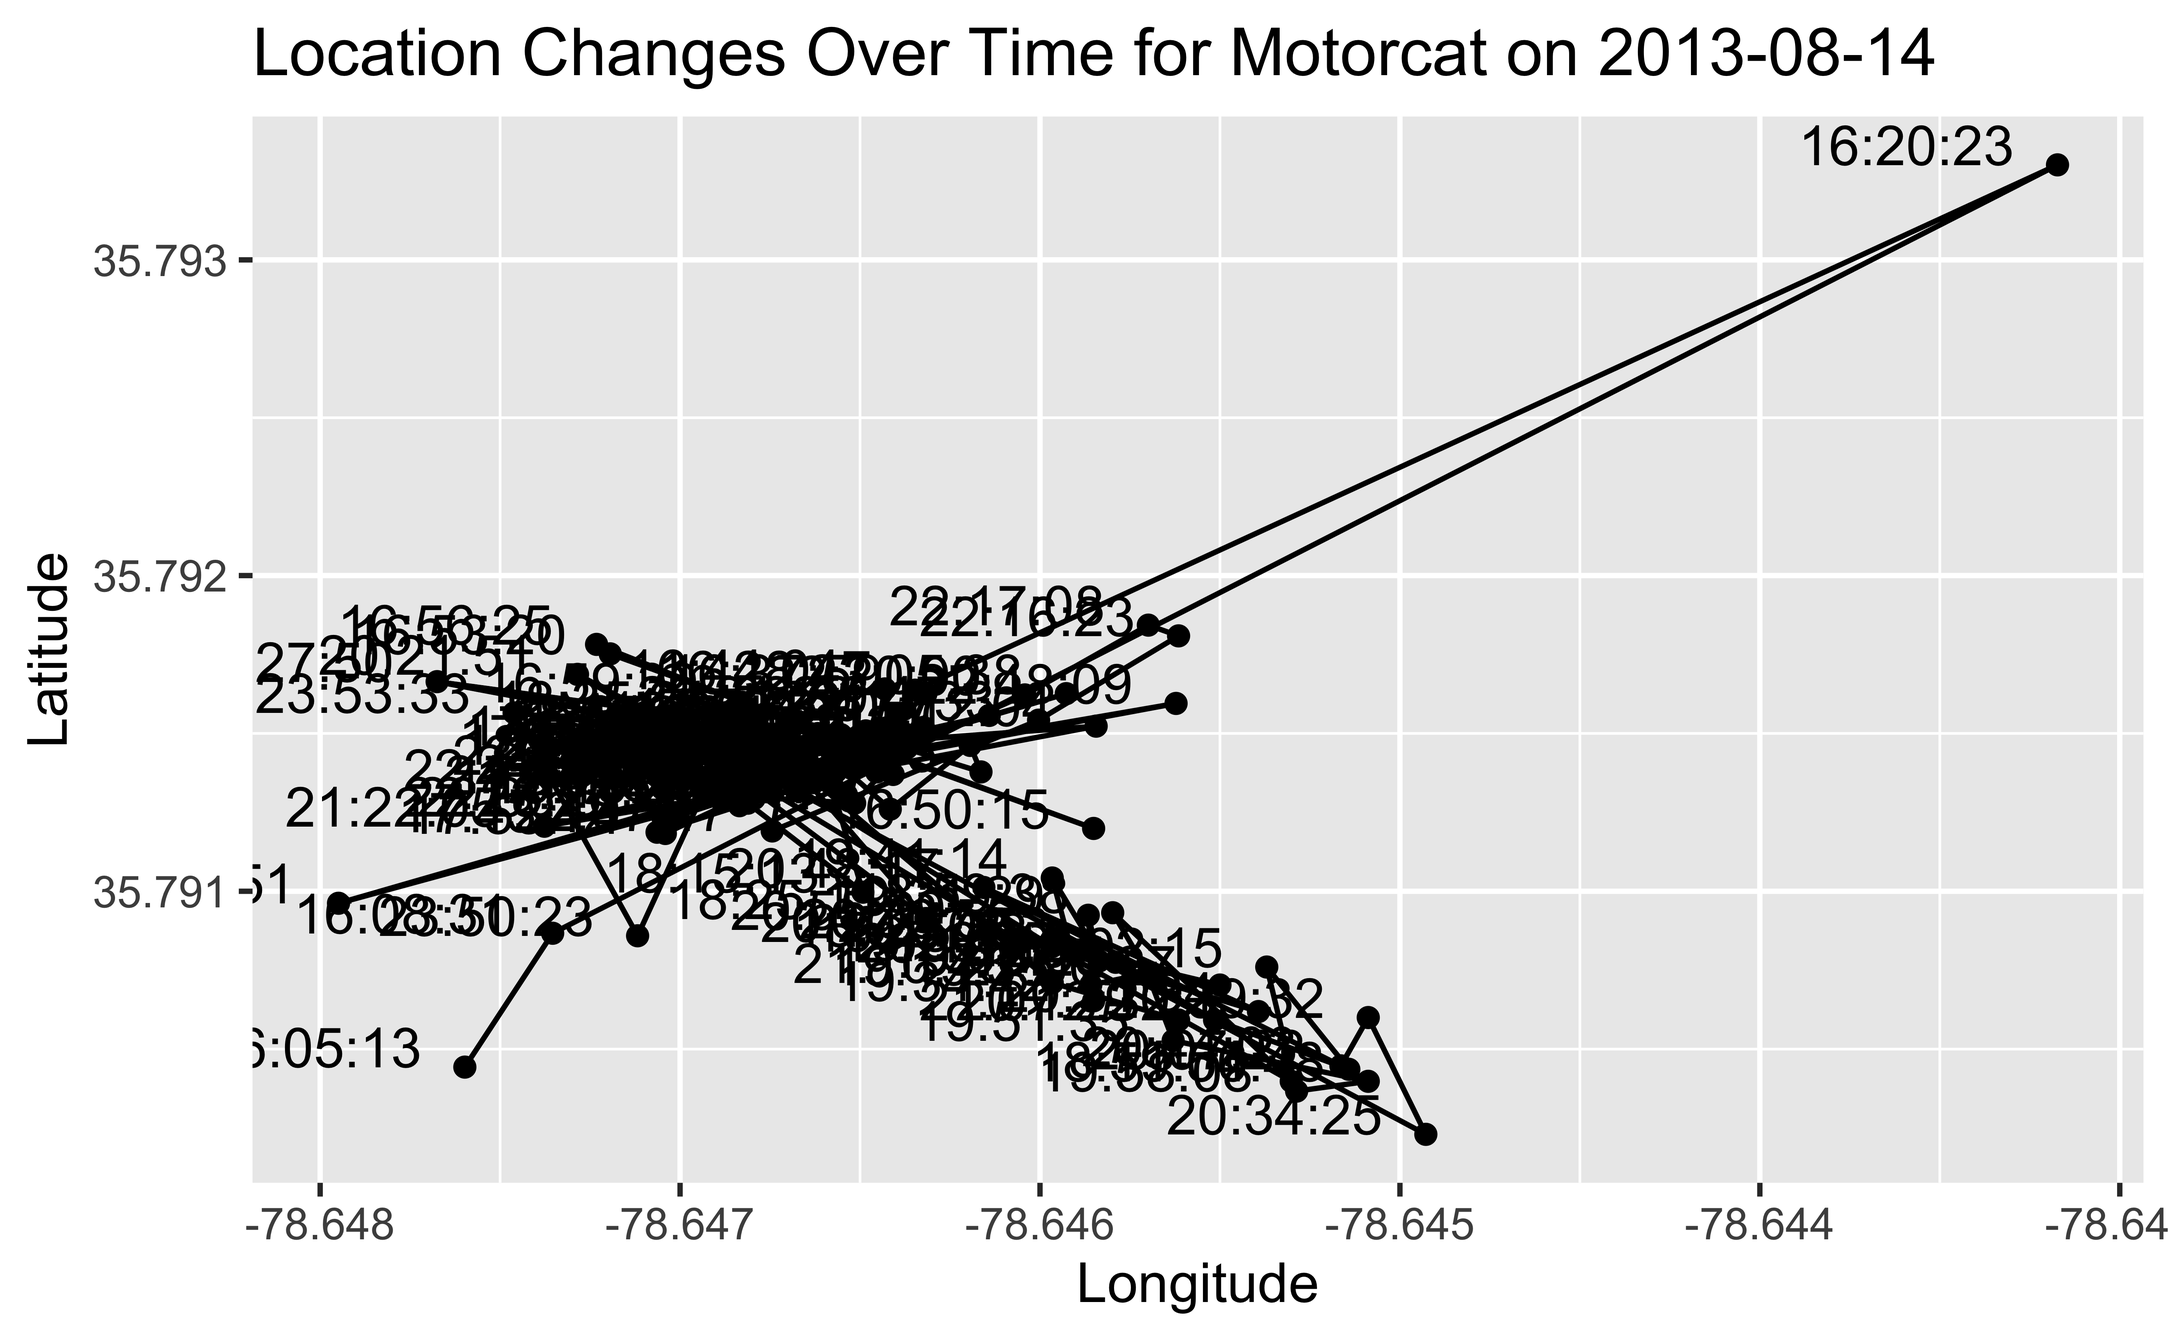
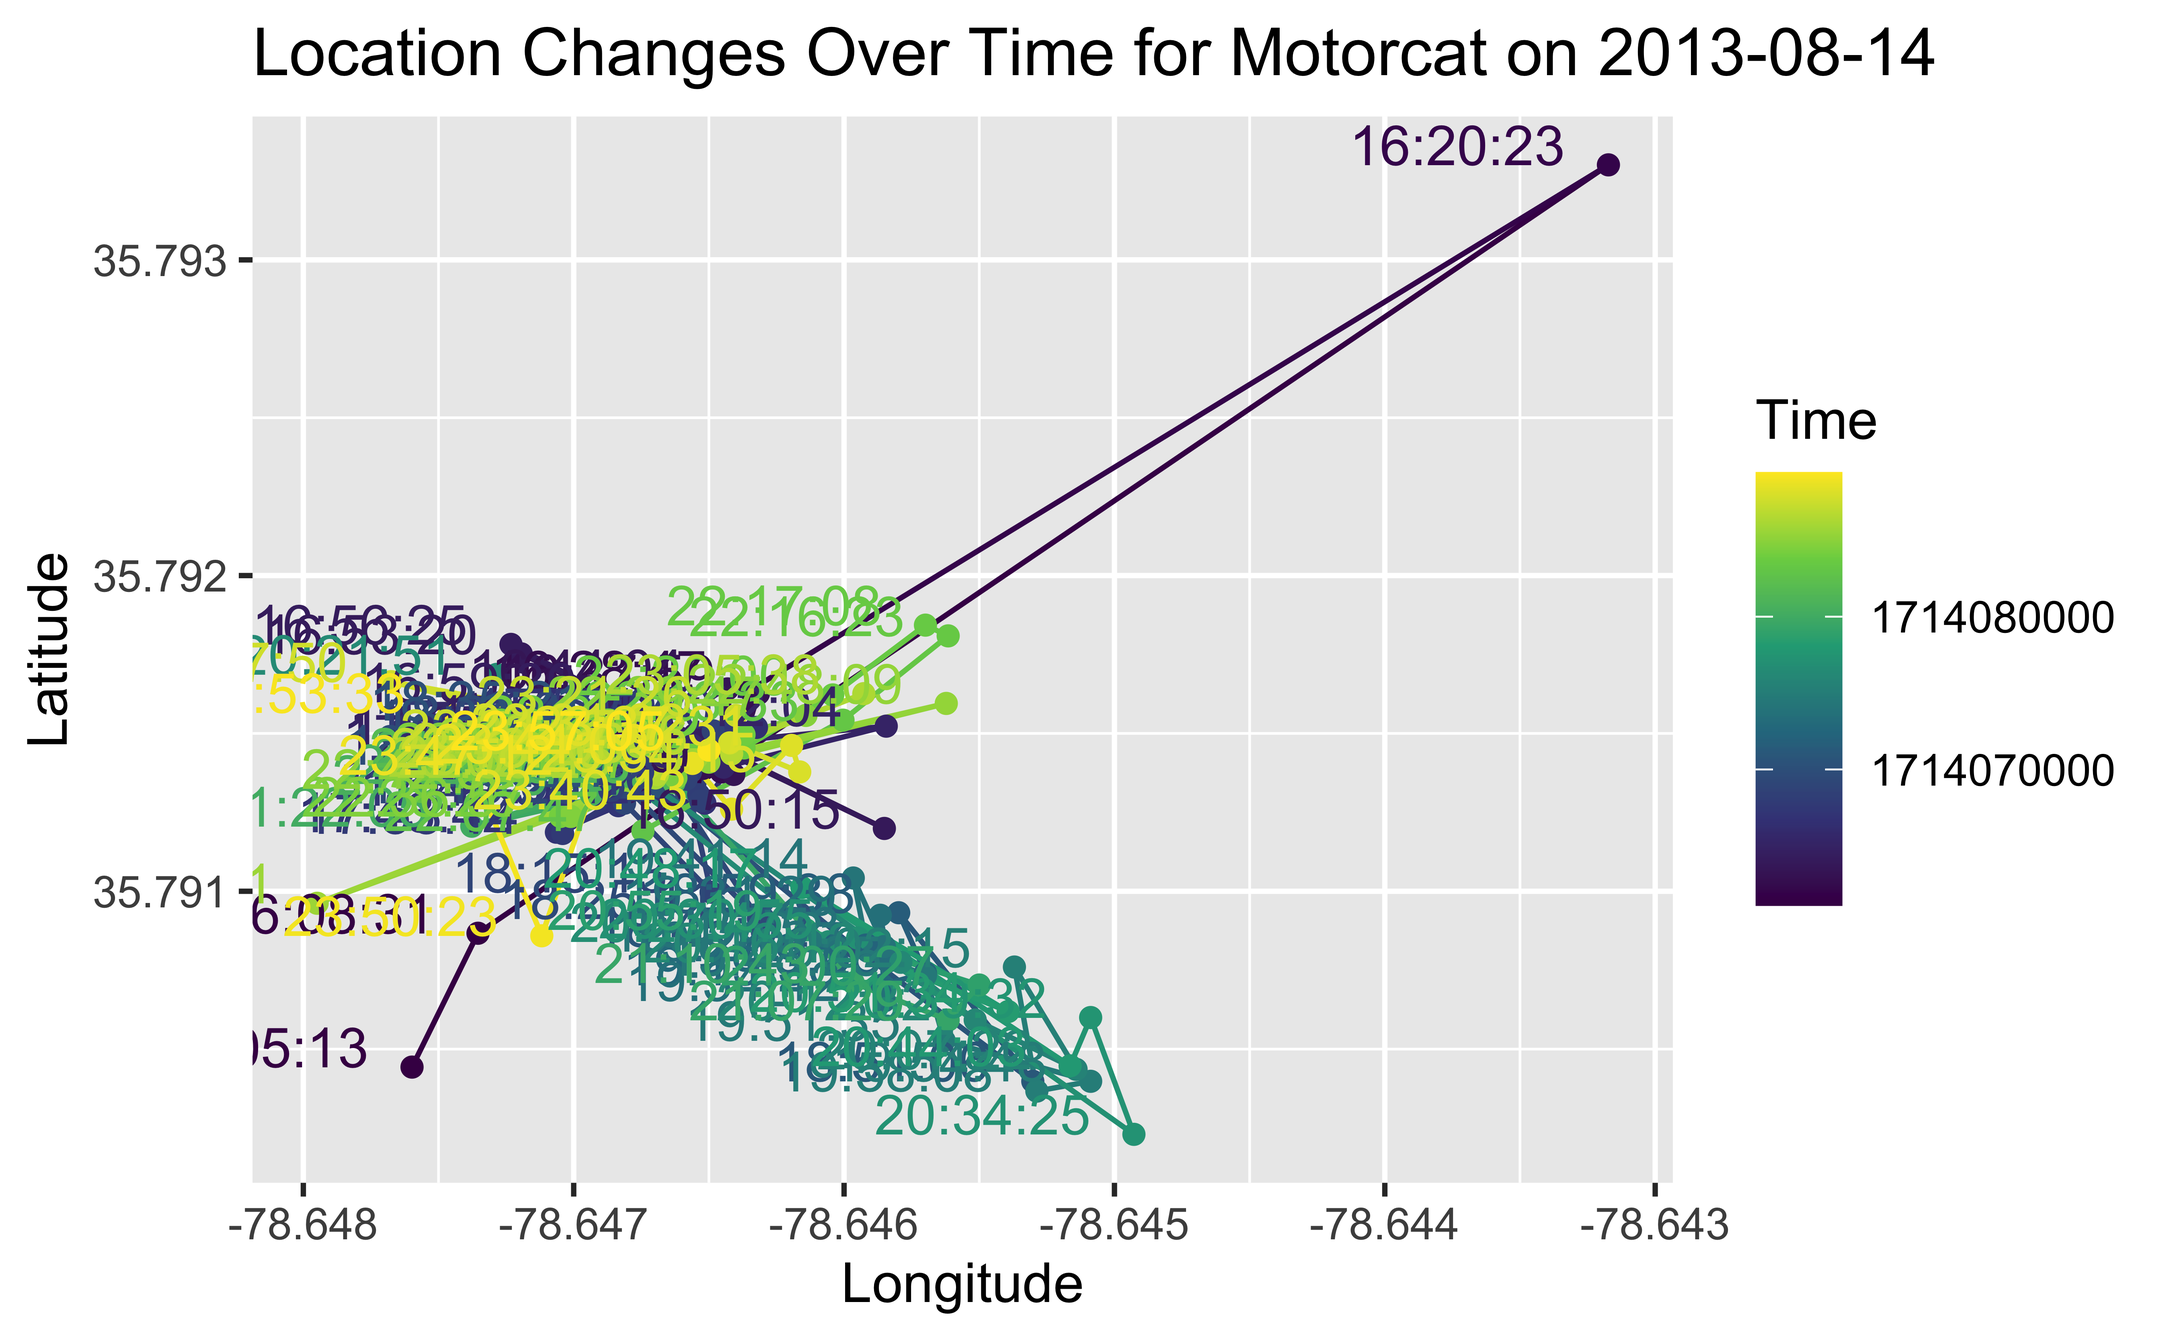
final pres push!!!

diff --git a/_site/presentation.html b/_site/presentation.html
@@ -405,18 +405,18 @@ Team Cat, aka Sydney Stitt
 <section id="so-what-is-a-cat" class="title-slide slide level1 center">
 <h1>So, What is a Cat?</h1>
 
-<img data-src="Images/914C34C0-E533-4D61-80B9-1A3BD8208928.jpg" class="r-stretch quarto-figure-center"><p class="caption">This is cat, his name is Moony. He is the most spoiled, silly cat out there!</p></section>
+<img data-src="Images/914C34C0-E533-4D61-80B9-1A3BD8208928.jpg" class="r-stretch quarto-figure-center"><p class="caption">This is cat, his name is <strong>Moony</strong>. He is the most spoiled, silly cat out there!</p></section>
 
 <section id="data" class="title-slide slide level1 center">
 <h1>Data</h1>
 <ul>
 <li><p>Two datasets</p>
 <ul>
-<li><p>cat_us: GPS coordinates &amp; timestamps of 140+ cats from the United States from 2013-2016</p></li>
-<li><p>cat_us_reference: metadata on individual cat lifestyles (sex, age, diet, hunting, number of cat siblings) and data collection metadata</p></li>
+<li><p><strong>cat_us</strong>: GPS coordinates &amp; timestamps of 140+ cats from the United States from 2013-2016</p></li>
+<li><p><strong>cat_us_reference</strong>: metadata on individual cat lifestyles (sex, age, diet, hunting, number of cat siblings) and data collection metadata</p></li>
 </ul></li>
 <li><p>Data collected by volunteer cat owners from 12 geographically diverse US states</p></li>
-<li><p>Initially used to analyze the ecological impacts of outdoor cats</p></li>
+<li><p>Initially used to analyze the <strong>ecological impacts</strong> of outdoor cats</p></li>
 </ul>
 </section>
 
@@ -433,15 +433,15 @@ Team Cat, aka Sydney Stitt
 <h1>Data Wrangling</h1>
 <p>659,770 observations into 62,543 observations! How did I do it?</p>
 <ol type="1">
-<li><p>Remove cats with NA metadata observations (not super useful without metadata) or locations outside the US</p></li>
-<li><p>Remove unnecessary variables and tidy up observations (time stamps and comments)</p></li>
-<li><p>Remove outliers (manually and algorithm marked)</p></li>
+<li><p>Remove cats with <strong>NA metadata observations</strong> (not super useful without metadata) or locations outside the US</p></li>
+<li><p>Remove <strong>unnecessary variables</strong> and tidy up observations (time stamps and comments)</p></li>
+<li><p>Remove <strong>outliers</strong> (manually and algorithm marked)</p></li>
 </ol>
 </section>
 <section id="this-is-getting-messy-calculating-distance" class="slide level2">
 <h2>This is Getting Messy! Calculating Distance!</h2>
 <ol type="1">
-<li><p>Create a function that calculates the distance between two sets of coordinates into a new variable using the Haversine formula</p></li>
+<li><p>Create a function that calculates the distance between two sets of coordinates into a new variable using the <strong>Haversine formula</strong></p></li>
 <li><p>Create individual datasets for each cat</p></li>
 <li><p>Apply Haversine function to calculate distances for each cat</p></li>
 <li><p>Take the averages of distances per day, per 3 minute observation cycle, per cat, and per age group for comparison</p></li>
@@ -596,8 +596,8 @@ Team Cat, aka Sydney Stitt
 <section id="data-visualizations" class="title-slide slide level1 center">
 <h1>Data Visualizations</h1>
 <ul>
-<li><p>Will eventually make a Shiny app to have user customize which cat and which day they want to visualize</p></li>
-<li><p>For now, this is the base for what I want the app to produce</p></li>
+<li><p>Will eventually make a <strong>Shiny app</strong> to have user customize which cat and which day they want to visualize</p></li>
+<li><p>For now, these are the basic visualizations for what I want the app to produce</p></li>
 </ul>
 </section>
 <section id="map-1" class="slide level2">
@@ -609,24 +609,26 @@ Team Cat, aka Sydney Stitt
 <div class="cell">
 <div class="sourceCode cell-code" id="cb4"><pre class="sourceCode numberSource r number-lines code-with-copy"><code class="sourceCode r"><span id="cb4-1"><a href="#cb4-1"></a><span class="co">#Function</span></span>
 <span id="cb4-2"><a href="#cb4-2"></a>plot_cat_movement <span class="ot">&lt;-</span> <span class="cf">function</span>(adjusted_cat_distance, cat_identifier, date) {</span>
-<span id="cb4-3"><a href="#cb4-3"></a>  motorcat_cat <span class="ot">&lt;-</span> adjusted_cat_distance <span class="sc">%&gt;%</span></span>
-<span id="cb4-4"><a href="#cb4-4"></a>    <span class="fu">filter</span>(<span class="st">`</span><span class="at">individual-local-identifier</span><span class="st">`</span> <span class="sc">==</span> cat_identifier) <span class="sc">%&gt;%</span></span>
-<span id="cb4-5"><a href="#cb4-5"></a>    <span class="fu">filter</span>(Date <span class="sc">==</span> date) <span class="sc">%&gt;%</span></span>
-<span id="cb4-6"><a href="#cb4-6"></a>    <span class="fu">mutate</span>(<span class="at">Time =</span> <span class="fu">as.POSIXct</span>(Time, <span class="at">format =</span> <span class="st">"%H:%M:%S"</span>)) <span class="sc">%&gt;%</span></span>
-<span id="cb4-7"><a href="#cb4-7"></a>    <span class="fu">arrange</span>(Time)</span>
-<span id="cb4-8"><a href="#cb4-8"></a>  </span>
-<span id="cb4-9"><a href="#cb4-9"></a>  <span class="co"># Generate title dynamically</span></span>
-<span id="cb4-10"><a href="#cb4-10"></a>  title <span class="ot">&lt;-</span> <span class="fu">paste</span>(<span class="st">"Location Changes Over Time for"</span>, cat_identifier, <span class="st">"on"</span>, date)</span>
-<span id="cb4-11"><a href="#cb4-11"></a>  </span>
-<span id="cb4-12"><a href="#cb4-12"></a>  <span class="fu">ggplot</span>(motorcat_cat, <span class="fu">aes</span>(<span class="at">x =</span> <span class="st">`</span><span class="at">location-long</span><span class="st">`</span>, <span class="at">y =</span> <span class="st">`</span><span class="at">location-lat</span><span class="st">`</span>, <span class="at">group =</span> <span class="dv">1</span>)) <span class="sc">+</span></span>
-<span id="cb4-13"><a href="#cb4-13"></a>    <span class="fu">geom_path</span>() <span class="sc">+</span> </span>
-<span id="cb4-14"><a href="#cb4-14"></a>    <span class="fu">geom_point</span>() <span class="sc">+</span></span>
-<span id="cb4-15"><a href="#cb4-15"></a>    <span class="fu">geom_text</span>(<span class="fu">aes</span>(<span class="at">label =</span> <span class="fu">format</span>(Time, <span class="st">"%H:%M:%S"</span>)), <span class="at">hjust =</span> <span class="fl">1.2</span>, <span class="at">vjust =</span> <span class="dv">0</span>) <span class="sc">+</span>  <span class="co"># Add time stamps</span></span>
-<span id="cb4-16"><a href="#cb4-16"></a>    <span class="fu">labs</span>(<span class="at">x =</span> <span class="st">"Longitude"</span>, <span class="at">y =</span> <span class="st">"Latitude"</span>, <span class="at">title =</span> title)</span>
-<span id="cb4-17"><a href="#cb4-17"></a>}</span>
-<span id="cb4-18"><a href="#cb4-18"></a></span>
-<span id="cb4-19"><a href="#cb4-19"></a><span class="co"># Usage example</span></span>
-<span id="cb4-20"><a href="#cb4-20"></a><span class="fu">plot_cat_movement</span>(adjusted_cat_distance, <span class="st">"Motorcat"</span>, <span class="st">"2013-08-14"</span>)</span></code><button title="Copy to Clipboard" class="code-copy-button"><i class="bi"></i></button></pre></div>
+<span id="cb4-3"><a href="#cb4-3"></a>  </span>
+<span id="cb4-4"><a href="#cb4-4"></a>  motorcat_cat <span class="ot">&lt;-</span> adjusted_cat_distance <span class="sc">%&gt;%</span></span>
+<span id="cb4-5"><a href="#cb4-5"></a>    <span class="fu">filter</span>(<span class="st">`</span><span class="at">individual-local-identifier</span><span class="st">`</span> <span class="sc">==</span> cat_identifier) <span class="sc">%&gt;%</span></span>
+<span id="cb4-6"><a href="#cb4-6"></a>    <span class="fu">filter</span>(Date <span class="sc">==</span> date) <span class="sc">%&gt;%</span></span>
+<span id="cb4-7"><a href="#cb4-7"></a>    <span class="fu">mutate</span>(<span class="at">Time =</span> <span class="fu">as.POSIXct</span>(Time, <span class="at">format =</span> <span class="st">"%H:%M:%S"</span>, <span class="at">tz =</span> <span class="st">"UTC"</span>)) <span class="sc">%&gt;%</span>  <span class="co"># Convert to POSIXct</span></span>
+<span id="cb4-8"><a href="#cb4-8"></a>    <span class="fu">arrange</span>(Time)</span>
+<span id="cb4-9"><a href="#cb4-9"></a>  </span>
+<span id="cb4-10"><a href="#cb4-10"></a>  <span class="co"># Generate title dynamically</span></span>
+<span id="cb4-11"><a href="#cb4-11"></a>  title <span class="ot">&lt;-</span> <span class="fu">paste</span>(<span class="st">"Location Changes Over Time for"</span>, cat_identifier, <span class="st">"on"</span>, date)</span>
+<span id="cb4-12"><a href="#cb4-12"></a>  </span>
+<span id="cb4-13"><a href="#cb4-13"></a>  <span class="fu">ggplot</span>(motorcat_cat, <span class="fu">aes</span>(<span class="at">x =</span> <span class="st">`</span><span class="at">location-long</span><span class="st">`</span>, <span class="at">y =</span> <span class="st">`</span><span class="at">location-lat</span><span class="st">`</span>, <span class="at">group =</span> <span class="dv">1</span>, <span class="at">color =</span> Time)) <span class="sc">+</span></span>
+<span id="cb4-14"><a href="#cb4-14"></a>    <span class="fu">geom_path</span>() <span class="sc">+</span> </span>
+<span id="cb4-15"><a href="#cb4-15"></a>    <span class="fu">geom_point</span>() <span class="sc">+</span></span>
+<span id="cb4-16"><a href="#cb4-16"></a>    <span class="fu">scale_color_viridis_c</span>() <span class="sc">+</span></span>
+<span id="cb4-17"><a href="#cb4-17"></a>    <span class="fu">geom_text</span>(<span class="fu">aes</span>(<span class="at">label =</span> <span class="fu">format</span>(Time, <span class="st">"%H:%M:%S"</span>)), <span class="at">hjust =</span> <span class="fl">1.2</span>, <span class="at">vjust =</span> <span class="dv">0</span>) <span class="sc">+</span>  <span class="co"># Add time stamps</span></span>
+<span id="cb4-18"><a href="#cb4-18"></a>    <span class="fu">labs</span>(<span class="at">x =</span> <span class="st">"Longitude"</span>, <span class="at">y =</span> <span class="st">"Latitude"</span>, <span class="at">title =</span> title)</span>
+<span id="cb4-19"><a href="#cb4-19"></a>}</span>
+<span id="cb4-20"><a href="#cb4-20"></a></span>
+<span id="cb4-21"><a href="#cb4-21"></a><span class="co"># Usage example</span></span>
+<span id="cb4-22"><a href="#cb4-22"></a><span class="fu">plot_cat_movement</span>(adjusted_cat_distance, <span class="st">"Motorcat"</span>, <span class="st">"2013-08-14"</span>)</span></code><button title="Copy to Clipboard" class="code-copy-button"><i class="bi"></i></button></pre></div>
 </div>
 </div>
 <div id="tabset-1-2">
@@ -659,8 +661,8 @@ Team Cat, aka Sydney Stitt
 <span id="cb5-3"><a href="#cb5-3"></a>  <span class="fu">summarize</span>(<span class="at">avg_dist_day_by_age =</span> <span class="fu">mean</span>(avg_distance_day),</span>
 <span id="cb5-4"><a href="#cb5-4"></a>            <span class="at">avg_dist_obs_by_age =</span> <span class="fu">mean</span>(mean_distance_obs))</span>
 <span id="cb5-5"><a href="#cb5-5"></a><span class="fu">ggplot</span>(age_summaries, <span class="fu">aes</span>(<span class="at">x =</span> <span class="st">`</span><span class="at">animal-life-stage</span><span class="st">`</span>, <span class="at">y =</span> avg_dist_day_by_age)) <span class="sc">+</span></span>
-<span id="cb5-6"><a href="#cb5-6"></a>  <span class="fu">geom_col</span>() <span class="sc">+</span></span>
-<span id="cb5-7"><a href="#cb5-7"></a>  <span class="fu">labs</span>(<span class="at">x =</span> <span class="st">"Age in Years"</span>, <span class="at">y =</span> <span class="st">"Average Distance in m"</span>, <span class="at">title =</span> <span class="st">"Average Distance Traveled By Cats Each Day, Grouped by Age"</span>)</span></code><button title="Copy to Clipboard" class="code-copy-button"><i class="bi"></i></button></pre></div>
+<span id="cb5-6"><a href="#cb5-6"></a>  <span class="fu">geom_col</span>(<span class="at">color =</span> <span class="st">"#45105b"</span>, <span class="at">fill =</span> <span class="st">"#9a94bc"</span>) <span class="sc">+</span></span>
+<span id="cb5-7"><a href="#cb5-7"></a>  <span class="fu">labs</span>(<span class="at">x =</span> <span class="st">"Age in Years"</span>, <span class="at">y =</span> <span class="st">"Average Distance in m"</span>, <span class="at">title =</span> <span class="st">"Average Distance Traveled By Cats Each Day, </span><span class="sc">\n</span><span class="st">Grouped by Age"</span>)</span></code><button title="Copy to Clipboard" class="code-copy-button"><i class="bi"></i></button></pre></div>
 </div>
 </div>
 <div id="tabset-2-2">
@@ -685,8 +687,8 @@ Team Cat, aka Sydney Stitt
 <span id="cb6-3"><a href="#cb6-3"></a>  <span class="fu">summarize</span>(<span class="at">avg_dist_day_by_age =</span> <span class="fu">mean</span>(avg_distance_day),</span>
 <span id="cb6-4"><a href="#cb6-4"></a>            <span class="at">avg_dist_obs_by_age =</span> <span class="fu">mean</span>(mean_distance_obs))</span>
 <span id="cb6-5"><a href="#cb6-5"></a><span class="fu">ggplot</span>(age_summaries, <span class="fu">aes</span>(<span class="at">x =</span> <span class="st">`</span><span class="at">animal-life-stage</span><span class="st">`</span>, <span class="at">y =</span> avg_dist_obs_by_age)) <span class="sc">+</span></span>
-<span id="cb6-6"><a href="#cb6-6"></a>  <span class="fu">geom_col</span>() <span class="sc">+</span></span>
-<span id="cb6-7"><a href="#cb6-7"></a>  <span class="fu">labs</span>(<span class="at">x =</span> <span class="st">"Age in Years"</span>, <span class="at">y =</span> <span class="st">"Average Distance in m"</span>, <span class="at">title =</span> <span class="st">"Average Distance Traveled By Cats per 3-Min Cycle, Grouped by Age"</span>)</span></code><button title="Copy to Clipboard" class="code-copy-button"><i class="bi"></i></button></pre></div>
+<span id="cb6-6"><a href="#cb6-6"></a>  <span class="fu">geom_col</span>(<span class="at">color =</span> <span class="st">"#45105b"</span>, <span class="at">fill =</span> <span class="st">"#9a94bc"</span>) <span class="sc">+</span></span>
+<span id="cb6-7"><a href="#cb6-7"></a>  <span class="fu">labs</span>(<span class="at">x =</span> <span class="st">"Age in Years"</span>, <span class="at">y =</span> <span class="st">"Average Distance in m"</span>, <span class="at">title =</span> <span class="st">"Average Distance Traveled By Cats per 3-Min Cycle, </span><span class="sc">\n</span><span class="st">Grouped by Age"</span>)</span></code><button title="Copy to Clipboard" class="code-copy-button"><i class="bi"></i></button></pre></div>
 </div>
 </div>
 <div id="tabset-3-2">
@@ -716,9 +718,9 @@ Team Cat, aka Sydney Stitt
 <section id="data-analysis-1" class="title-slide slide level1 center">
 <h1>Data Analysis</h1>
 <ul>
-<li><p>Cats, for the most part, stay clustered in one area and often return to one specific “hub”</p>
+<li><p>Cats, for the most part, stay <strong>clustered</strong> in one area and often return to one specific <strong>“hub”</strong></p>
 <ul>
-<li>Reasonable assumption that this is their home, and they are emotionally and physically attached to their home and their owner</li>
+<li>Reasonable assumption that this is their home, and they are <strong>emotionally and physically attached</strong> to their home and their owner</li>
 </ul></li>
 </ul>
 </section>
@@ -726,23 +728,25 @@ Team Cat, aka Sydney Stitt
 <section id="caveatslimitations" class="title-slide slide level1 center">
 <h1>Caveats/Limitations</h1>
 <ul>
+<li><p>Timestamp labels on travel maps can be hard to read, hopefully fixed with Shiny app</p></li>
 <li><p>Cats don’t travel in straight lines</p>
 <ul>
 <li>Observations calculated every 3 minutes, so the <em>distance</em> variable isn’t completely accurate to the total distance traveled</li>
 <li>3 minutes is a relatively good interval, but cats don’t move in a 2D linear fashion and often move back and forth and up and down</li>
 </ul></li>
+<li><p>Not all cats have the same number of days observed</p></li>
 </ul>
 </section>
 
 <section id="further-research" class="title-slide slide level1 center">
 <h1>Further Research</h1>
 <ul>
-<li><p>Observational data cannot be used to draw causal conclusions</p>
+<li><p>Observational data <strong>cannot be used to draw causal conclusions</strong></p>
 <ul>
 <li>So not representative of all cat behaviors!</li>
 </ul></li>
-<li><p>Future experimental studies with more robust design to see whether age affects a cat’s likelihood of moving further distances</p></li>
-<li><p>Future psychological studies to see what impacts a cat’s movement decisions</p></li>
+<li><p>Future <strong>experimental</strong> studies with more robust design to see whether age affects a cat’s likelihood of moving further distances</p></li>
+<li><p>Future <strong>psychological</strong> studies to see what impacts a cat’s movement decisions</p></li>
 </ul>
 </section>
 
